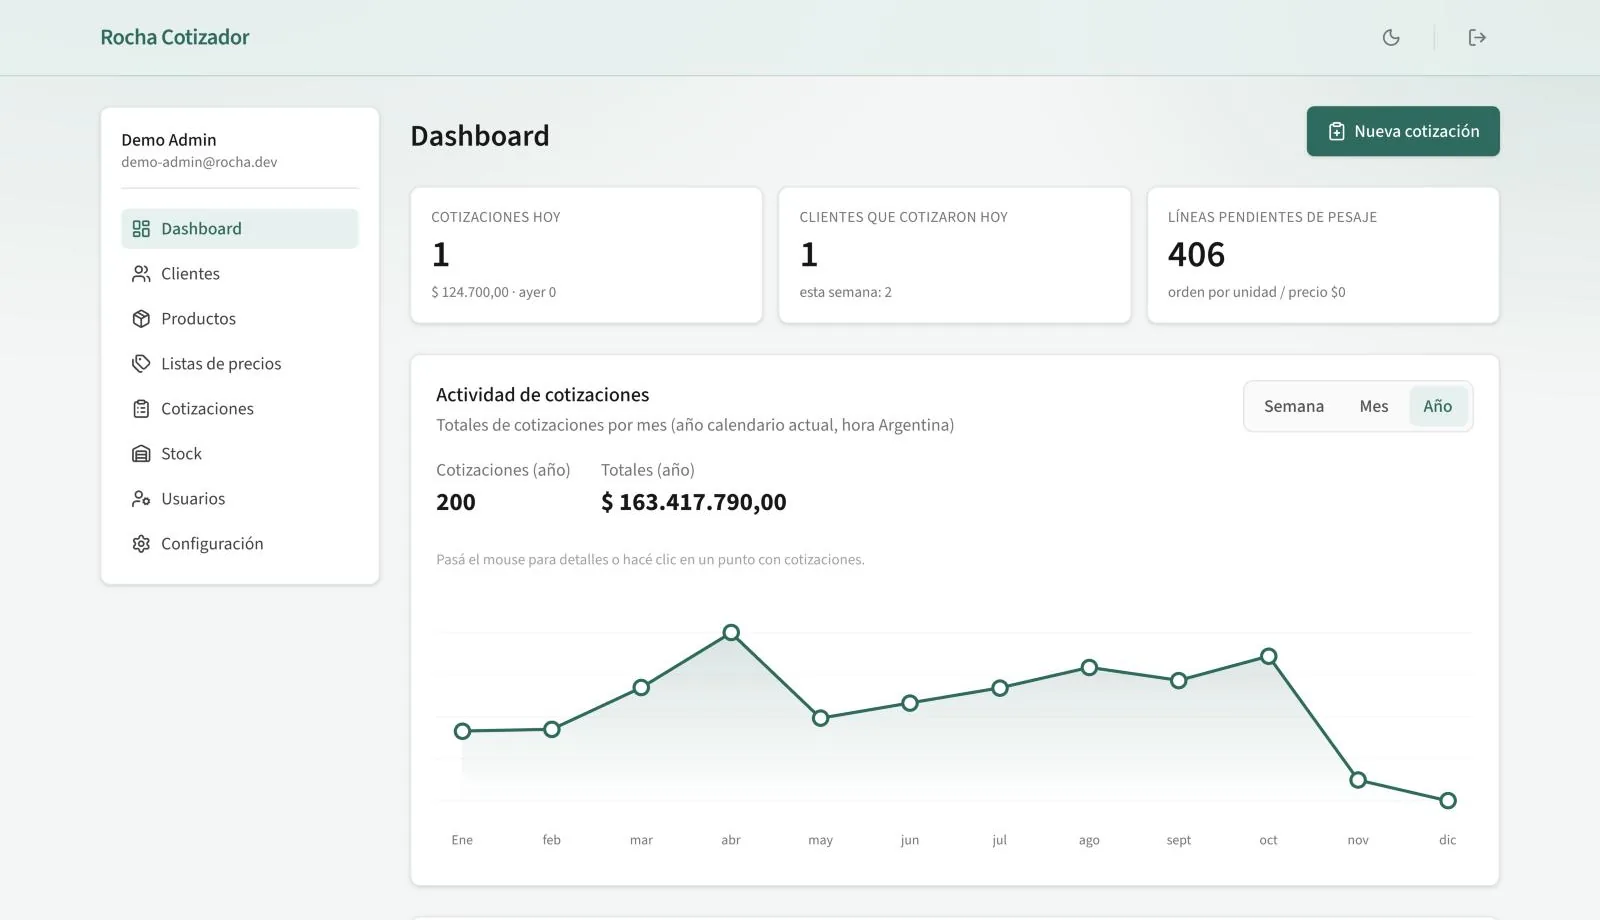
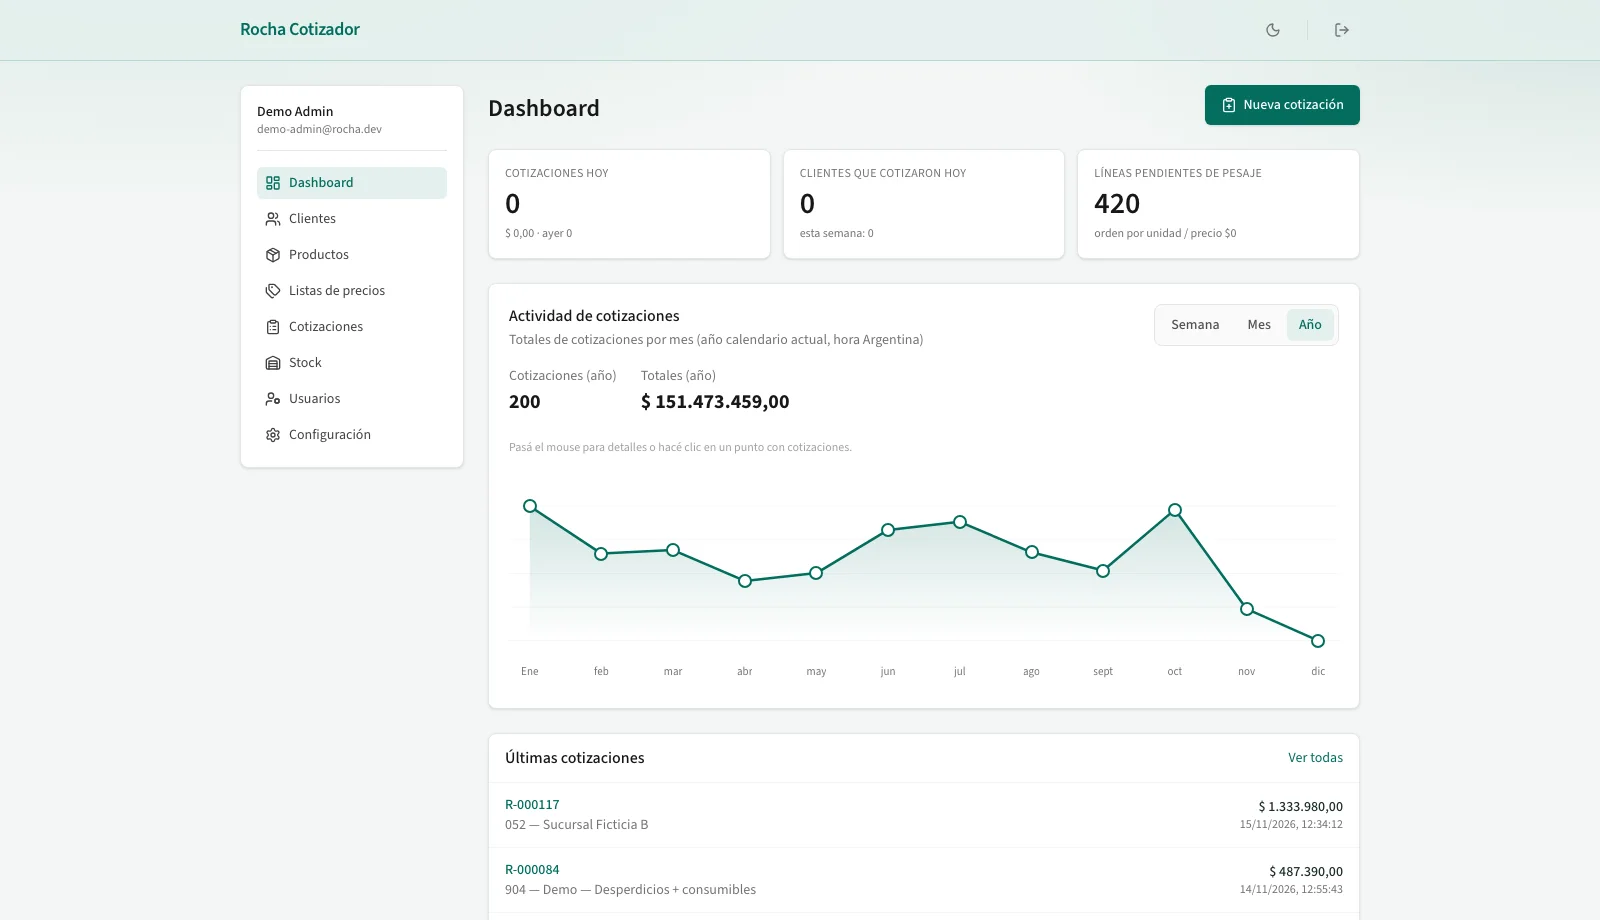
feat(portfolio): expand Rocha preview carousel from rocha-dev (#9)
* feat(portfolio): expand Rocha preview carousel from rocha-dev

Lead with the customer home hub and add admin stock, products, customers, and price lists captured from the live demo with full admin access.

* chore(portfolio): remove obsolete Rocha quote and remitos previews

* fix(portfolio): pause preview carousel autoplay on control hover

Stop slide autoplay while the pointer is over arrows or dots so manual control stays usable.

* fix(portfolio): drop Rocha products preview slide

Remove the admin products screenshot from the carousel; it was too similar to the customers table view.

---------

diff --git a/components/ProjectPreviewMedia.jsx b/components/ProjectPreviewMedia.jsx
@@ -49,11 +49,13 @@ export default function ProjectPreviewMedia({
   const [activeIndex, setActiveIndex] = useState(0);
   const [preferReducedMotion, setPreferReducedMotion] = useState(false);
   const [hovering, setHovering] = useState(false);
+  const [hoveringControls, setHoveringControls] = useState(false);
 
   const hasVideo = Boolean(project.previewVideo) && !preferReducedMotion;
   const showCarousel = slides.length > 1 && !hasVideo;
   const posterSrc = slides[0]?.src ?? project.previewImage ?? null;
   const activeSlide = slides[activeIndex] ?? slides[0];
+  const autoplayActive = hovering && !hoveringControls && !preferReducedMotion;
 
   useEffect(() => {
     const media = window.matchMedia("(prefers-reduced-motion: reduce)");
@@ -81,14 +83,19 @@ export default function ProjectPreviewMedia({
   const goPrev = useCallback(() => goTo(activeIndex - 1), [activeIndex, goTo]);
   const goNext = useCallback(() => goTo(activeIndex + 1), [activeIndex, goTo]);
 
-  // Auto-advance while hovered (pause on leave / reduced motion).
+  // Auto-advance while media hovered; pause on leave, controls hover, reduced motion.
   useEffect(() => {
-    if (!showCarousel || !hovering || preferReducedMotion) return undefined;
+    if (!showCarousel || !autoplayActive) return undefined;
     const id = window.setInterval(() => {
       setActiveIndex((current) => (current + 1) % slides.length);
     }, 2200);
     return () => window.clearInterval(id);
-  }, [hovering, preferReducedMotion, showCarousel, slides.length]);
+  }, [autoplayActive, showCarousel, slides.length]);
+
+  const pauseAutoplayOnControls = {
+    onPointerEnter: () => setHoveringControls(true),
+    onPointerLeave: () => setHoveringControls(false),
+  };
 
   const handleKeyDown = useCallback(
     (event) => {
@@ -220,7 +227,10 @@ export default function ProjectPreviewMedia({
       aria-live="polite"
       onKeyDown={handleKeyDown}
       onPointerEnter={() => setHovering(true)}
-      onPointerLeave={() => setHovering(false)}
+      onPointerLeave={() => {
+        setHovering(false);
+        setHoveringControls(false);
+      }}
     >
       <Box
         key={activeSlide.src}
@@ -258,6 +268,7 @@ export default function ProjectPreviewMedia({
       <IconButton
         size="small"
         aria-label={previousLabel}
+        {...pauseAutoplayOnControls}
         onClick={(event) => {
           event.preventDefault();
           event.stopPropagation();
@@ -280,6 +291,7 @@ export default function ProjectPreviewMedia({
       <IconButton
         size="small"
         aria-label={nextLabel}
+        {...pauseAutoplayOnControls}
         onClick={(event) => {
           event.preventDefault();
           event.stopPropagation();
@@ -303,6 +315,7 @@ export default function ProjectPreviewMedia({
         component="div"
         role="tablist"
         aria-label={`${project.title} preview slides`}
+        {...pauseAutoplayOnControls}
         sx={{
           position: "absolute",
           left: "50%",
@@ -317,7 +330,7 @@ export default function ProjectPreviewMedia({
           py: 0.55,
           borderRadius: 999,
           bgcolor: "rgba(15, 20, 25, 0.55)",
-          pointerEvents: "none",
+          pointerEvents: "auto",
         }}
       >
         {slides.map((slide, index) => (

diff --git a/src/App.test.jsx b/src/App.test.jsx
@@ -19,15 +19,17 @@ describe("App", () => {
     expect(screen.queryByText("Problem")).not.toBeInTheDocument();
   });
 
-  it("renders Rocha preview carousel with three slides", () => {
+  it("renders Rocha preview carousel with five slides", () => {
     render(<PortfolioPage />);
 
     const rocha = screen.getByRole("region", { name: "Rocha Cotizador previews" });
     expect(within(rocha).getByRole("button", { name: "Previous image" })).toBeInTheDocument();
     expect(within(rocha).getByRole("button", { name: "Next image" })).toBeInTheDocument();
-    expect(within(rocha).getByRole("tab", { name: "Show image 1 of 3" })).toBeInTheDocument();
-    expect(within(rocha).getByRole("tab", { name: "Show image 2 of 3" })).toBeInTheDocument();
-    expect(within(rocha).getByRole("tab", { name: "Show image 3 of 3" })).toBeInTheDocument();
+    expect(within(rocha).getByRole("tab", { name: "Show image 1 of 5" })).toBeInTheDocument();
+    expect(within(rocha).getByRole("tab", { name: "Show image 2 of 5" })).toBeInTheDocument();
+    expect(within(rocha).getByRole("tab", { name: "Show image 3 of 5" })).toBeInTheDocument();
+    expect(within(rocha).getByRole("tab", { name: "Show image 4 of 5" })).toBeInTheDocument();
+    expect(within(rocha).getByRole("tab", { name: "Show image 5 of 5" })).toBeInTheDocument();
   });
 
   it("renders Nexus preview carousel with five slides", () => {
@@ -56,7 +58,7 @@ describe("App", () => {
       render(<PortfolioPage />);
 
       const rocha = screen.getByRole("region", { name: "Rocha Cotizador previews" });
-      expect(within(rocha).getByRole("tab", { name: "Show image 1 of 3" })).toHaveAttribute(
+      expect(within(rocha).getByRole("tab", { name: "Show image 1 of 5" })).toHaveAttribute(
         "aria-selected",
         "true"
       );
@@ -65,7 +67,7 @@ describe("App", () => {
       act(() => {
         vi.advanceTimersByTime(2200);
       });
-      expect(within(rocha).getByRole("tab", { name: "Show image 2 of 3" })).toHaveAttribute(
+      expect(within(rocha).getByRole("tab", { name: "Show image 2 of 5" })).toHaveAttribute(
         "aria-selected",
         "true"
       );
@@ -74,7 +76,30 @@ describe("App", () => {
       act(() => {
         vi.advanceTimersByTime(4400);
       });
-      expect(within(rocha).getByRole("tab", { name: "Show image 2 of 3" })).toHaveAttribute(
+      expect(within(rocha).getByRole("tab", { name: "Show image 2 of 5" })).toHaveAttribute(
+        "aria-selected",
+        "true"
+      );
+    });
+
+    it("pauses autoplay while hovering carousel controls", () => {
+      render(<PortfolioPage />);
+
+      const rocha = screen.getByRole("region", { name: "Rocha Cotizador previews" });
+      fireEvent.pointerEnter(rocha);
+      act(() => {
+        vi.advanceTimersByTime(2200);
+      });
+      expect(within(rocha).getByRole("tab", { name: "Show image 2 of 5" })).toHaveAttribute(
+        "aria-selected",
+        "true"
+      );
+
+      fireEvent.pointerEnter(within(rocha).getByRole("button", { name: "Next image" }));
+      act(() => {
+        vi.advanceTimersByTime(4400);
+      });
+      expect(within(rocha).getByRole("tab", { name: "Show image 2 of 5" })).toHaveAttribute(
         "aria-selected",
         "true"
       );

diff --git a/data/projects/projects.js b/data/projects/projects.js
@@ -7,23 +7,31 @@ export const projects = [
     level: "Production",
     status: "Live",
     previewKey: "rocha-cotizador",
-    previewImage: "/project-previews/rocha-admin.webp",
+    previewImage: "/project-previews/rocha-customer-home.webp",
     previewImages: [
       {
+        src: "/project-previews/rocha-customer-home.webp",
+        alt: "Rocha Cotizador — Customer home hub with branded backdrop and module cards",
+      },
+      {
         src: "/project-previews/rocha-admin.webp",
-        alt: "Rocha Cotizador — Admin dashboard with daily KPIs and yearly quote activity chart",
+        alt: "Rocha Cotizador — Admin dashboard with KPIs and yearly quote activity chart",
       },
       {
-        src: "/project-previews/rocha-cotizador-quote.webp",
-        alt: "Rocha Cotizador — Nueva cotización with product lines and totals",
+        src: "/project-previews/rocha-admin-stock.webp",
+        alt: "Rocha Cotizador — Admin stock module with branch waste summary and product table",
       },
       {
-        src: "/project-previews/rocha-remitos.webp",
-        alt: "Rocha Cotizador — Admin quotes list with remito numbers, customers, delivery dates and totals",
+        src: "/project-previews/rocha-admin-clientes.webp",
+        alt: "Rocha Cotizador — Admin customers with assigned price lists and status",
+      },
+      {
+        src: "/project-previews/rocha-admin-listas.webp",
+        alt: "Rocha Cotizador — Admin price lists with products and customers per list",
       },
     ],
     previewAlt:
-      "Preview of Rocha Cotizador admin dashboard with KPIs and yearly quote activity chart",
+      "Preview of Rocha Cotizador customer home and admin modules from the live demo",
     demoUrl: "https://rocha-cotizador-dev.vercel.app/",
     repoUrl: "https://github.com/matiasmorenog/rocha-cotizador",
   },
